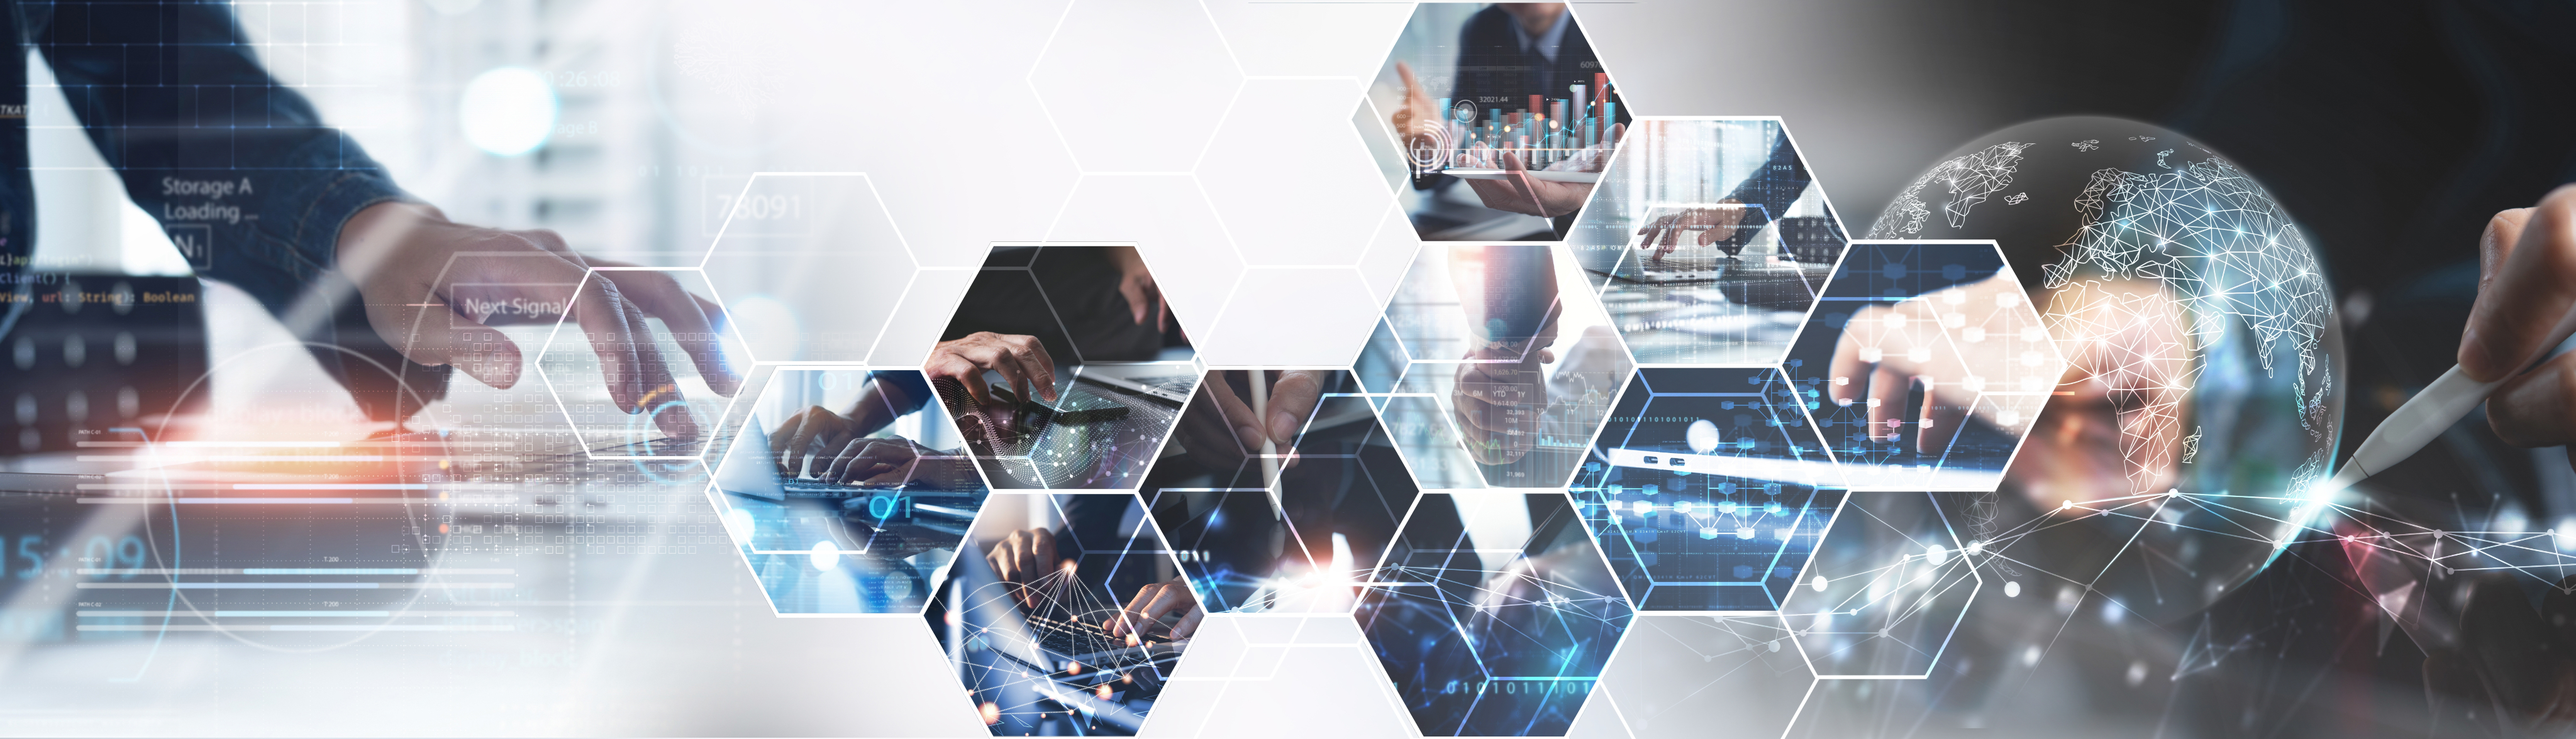
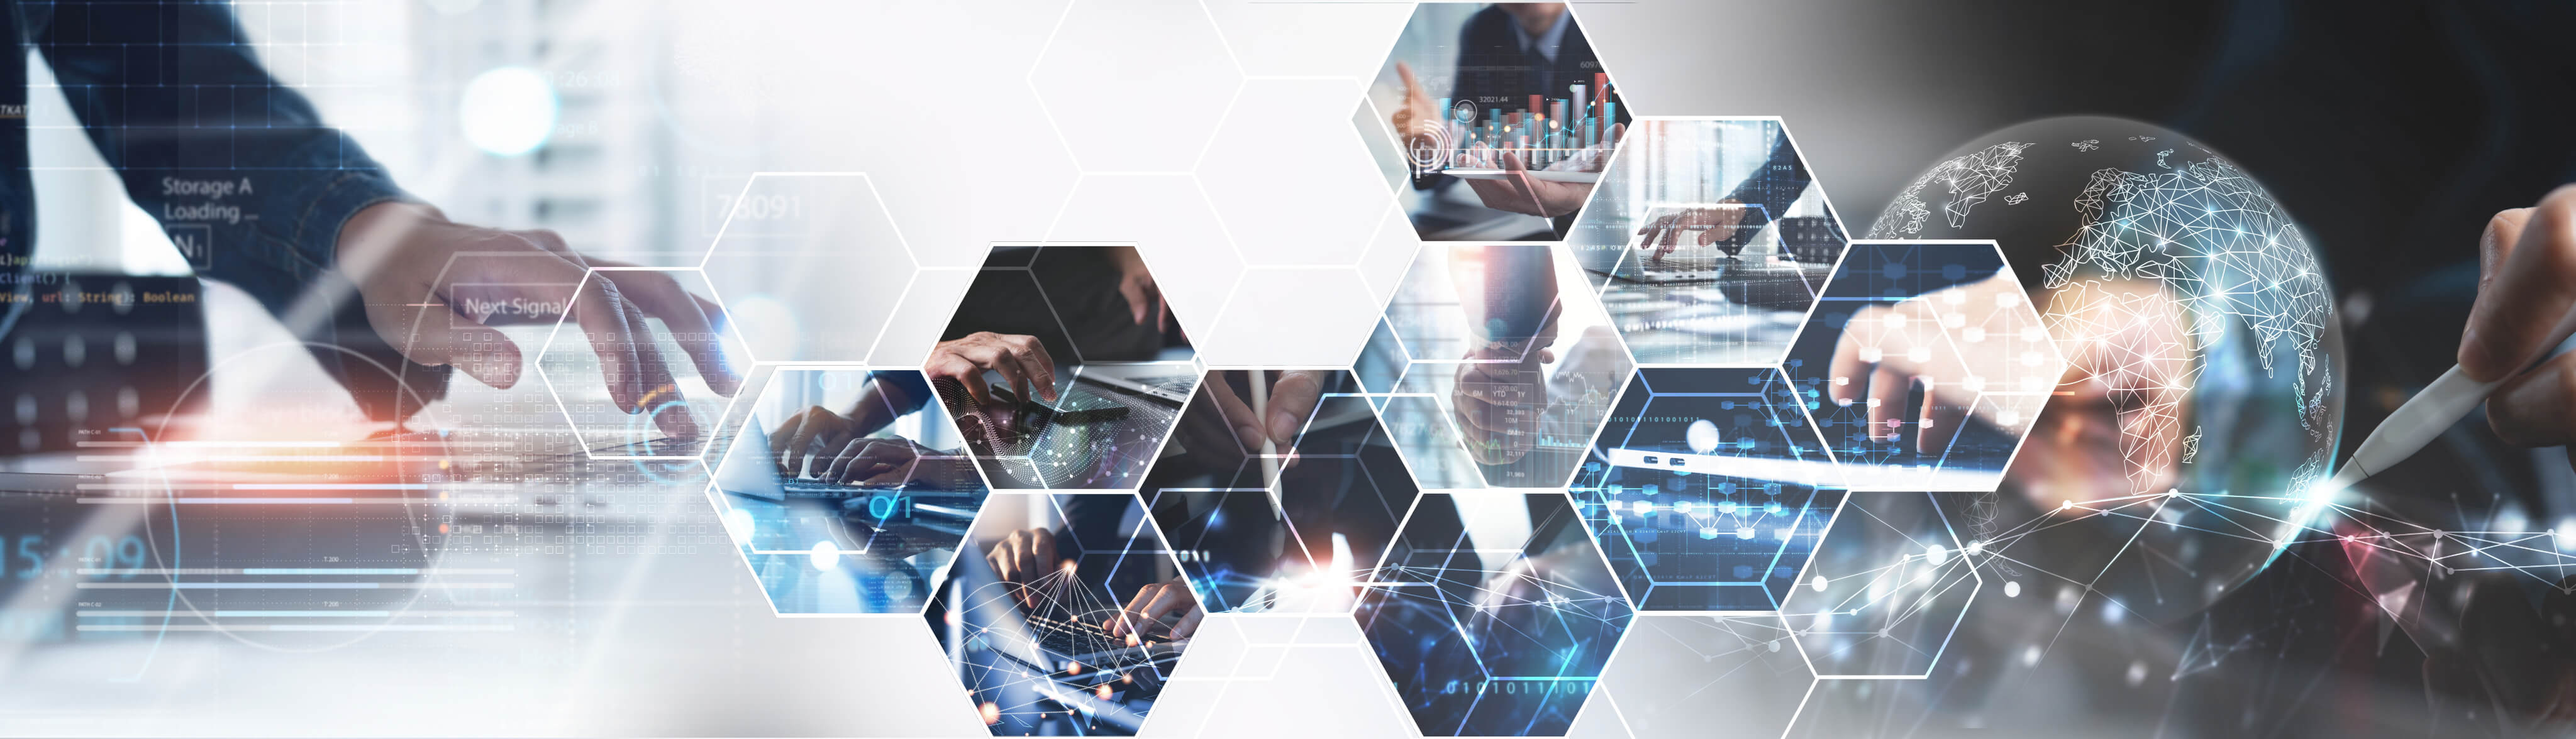
Optimizatio images

diff --git a/public/contact.html b/public/contact.html
@@ -4,7 +4,7 @@
     <meta name="viewport" content="width=device-width, initial-scale=1.0">
     <title>CONTACT US / MDS</title>
     <link rel="shortcut icon" href="image/Meta Logo Final 1.png" type="image/x-icon">
-    <link rel="stylesheet" href="input.css">
+    <link rel="stylesheet" href="output.css">
     <link rel="preconnect" href="https://fonts.googleapis.com">
     <link rel="preconnect" href="https://fonts.gstatic.com" crossorigin>
     <link href="https://fonts.googleapis.com/css2?family=Noto+Sans:ital,wght@0,100..900;1,100..900&display=swap" rel="stylesheet">
